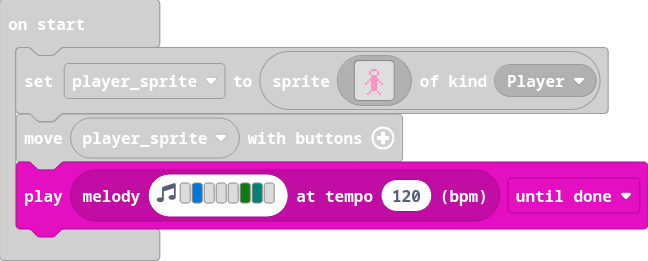
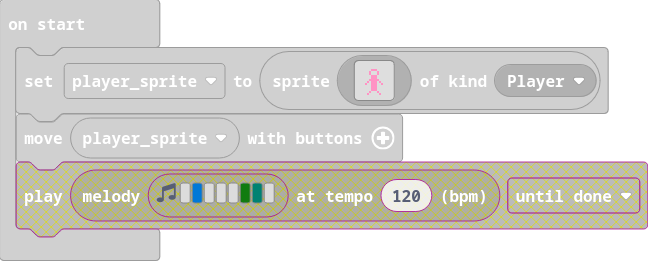
123

Changed region(s): [[0.0, 0.613, 1.0, 0.9195]]

diff --git a/main.ts b/main.ts
@@ -17,4 +17,3 @@ let player_sprite = sprites.create(img`
     . . . . . . . . . . . . . . . . 
     `, SpriteKind.Player)
 controller.moveSprite(player_sprite)
-music.play(music.stringPlayable("- E - - - G F - ", 120), music.PlaybackMode.UntilDone)
